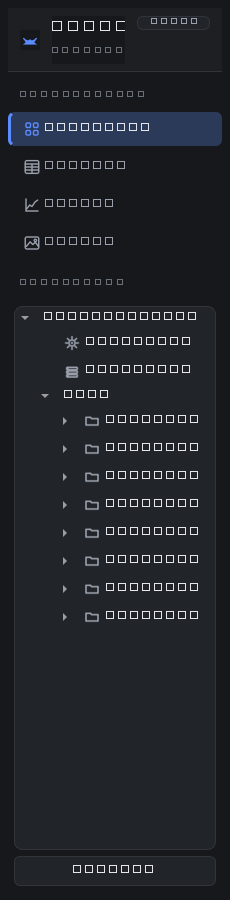
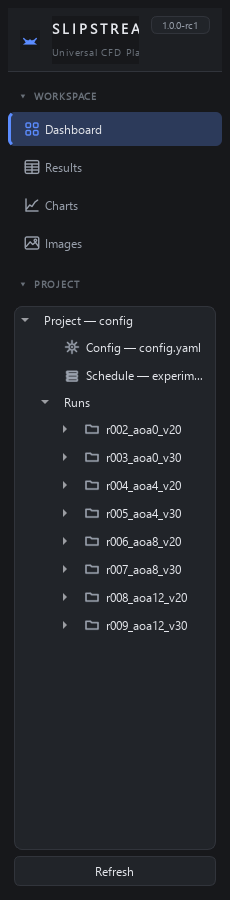
feat: finalize Neo v2.2 visual polish

diff --git a/gui/panels/params_panel.py b/gui/panels/params_panel.py
@@ -51,11 +51,37 @@ def _meta_caption(pdef) -> str:
     return "  ·  ".join(parts)
 
 
+def _row_label(text: str, caption: str) -> QWidget:
+    """A parameter label column: display name over a dim metadata caption.
+
+    Shared by study-parameter rows (name + range) and free Workbench rows
+    (name + neutral descriptor) so both columns have the identical
+    hierarchy. ``text`` is data-driven (a parameter display name or a WBP
+    column name) — never a hardcoded domain label.
+    """
+    name = QLabel(text)
+    name.setProperty("paramName", True)
+    lbl = QWidget()
+    ll = QVBoxLayout(lbl)
+    ll.setContentsMargins(0, 0, 0, 0)
+    ll.setSpacing(theme.SPACE_XS)
+    ll.addWidget(name)
+    cap = QLabel(caption)
+    cap.setProperty("paramMeta", True)
+    ll.addWidget(cap)
+    ll.addStretch(1)
+    return lbl
+
+
 class ParamsPanel(QWidget):
     def __init__(self, state: AppState, parent=None):
         super().__init__(parent)
         self.state = state
         self._wbp_spins: Dict[str, QDoubleSpinBox] = {}
+        # The widget each WBP row actually registered in the form (the spin for
+        # free WBP rows, the spin+caption cell for metadata-backed ones) — used
+        # to remove rows by widget on rebuild. Presentation only.
+        self._wbp_fields: Dict[str, QWidget] = {}
         self._sel_rows: List[_Row] = []
         self._add_rows: List[_Row] = []
 
@@ -146,16 +172,7 @@ class ParamsPanel(QWidget):
         pdef = sp.parameter
         spin = param_render.make_spin(pdef, value=value)
 
-        name = QLabel(sp.display_name)
-        name.setProperty("paramName", True)
-        lbl = QWidget(); ll = QVBoxLayout(lbl)
-        ll.setContentsMargins(0, 0, 0, 0)
-        ll.setSpacing(theme.SPACE_XS)
-        ll.addWidget(name)
-        rng = QLabel(param_render.range_text(pdef))
-        rng.setProperty("paramMeta", True)
-        ll.addWidget(rng)
-        ll.addStretch(1)
+        lbl = _row_label(sp.display_name, param_render.range_text(pdef))
 
         field = QWidget(); fl = QVBoxLayout(field)
         fl.setContentsMargins(0, 0, 0, 0)
@@ -169,14 +186,33 @@ class ParamsPanel(QWidget):
         return lbl, spin, field
 
     def _rebuild_wbp(self) -> None:
-        for spin in self._wbp_spins.values():
-            self.form.removeRow(spin)
+        """(Re)build the free Workbench-parameter rows. Presentation only.
+
+        A WBP column that also matches a declared study parameter is rendered
+        with the *full* metadata hierarchy (name · range · unit · default) via
+        ``_build_row``; a genuinely free WBP parameter gets the same
+        label/caption structure with a neutral descriptor (it carries no
+        ParameterDefinition). Neither path hardcodes a parameter name — both
+        are keyed by the workbook's own WBP column names.
+        """
+        for field in self._wbp_fields.values():
+            self.form.removeRow(field)
+        self._wbp_fields.clear()
         self._wbp_spins.clear()
+        by_name = {p.name: p for p in self.state.input_parameters()}
         for name in self.state.wbp_names:
-            spin = param_render.plain_spin(tooltip=f"{name} — free Workbench "
-                                           f"parameter (no metadata bounds).")
+            sp = by_name.get(name)
+            if sp is not None:
+                lbl, spin, field = self._build_row(sp)
+            else:
+                spin = param_render.plain_spin(
+                    tooltip=f"{name} — free Workbench parameter "
+                            f"(no metadata bounds).")
+                lbl = _row_label(name, "Workbench parameter · free value")
+                field = spin
             self._wbp_spins[name] = spin
-            self.form.insertRow(self.form.rowCount(), f"{name} (WBP)", spin)
+            self._wbp_fields[name] = field
+            self.form.insertRow(self.form.rowCount(), lbl, field)
 
     def _load_row(self, row: int) -> None:
         df = self.state.df

diff --git a/tests/test_neov2_milestone3.py b/tests/test_neov2_milestone3.py
@@ -82,6 +82,31 @@ def test_params_panel_still_scrolls_and_min_width(qapp):
         assert hasattr(panel, name)
 
 
+def test_params_wbp_rows_have_metadata_parity(qapp):
+    """WBP rows get the same label/field hierarchy as study rows; a WBP column
+    that matches a declared study parameter is rendered with full metadata."""
+    from gui.panels.params_panel import ParamsPanel
+    st = _state_for(EXTERNAL_AERODYNAMICS)
+    st.wbp_names = ["FlapAngle", "aoa"]
+    panel = ParamsPanel(st)
+    panel._rebuild_wbp()
+    assert set(panel._wbp_spins) == {"FlapAngle", "aoa"}
+    assert set(panel._wbp_fields) == {"FlapAngle", "aoa"}
+    # Free WBP parameter → neutral caption, plain (unbounded) spin.
+    free = panel._wbp_spins["FlapAngle"]
+    assert free.minimum() == -1e6 and free.maximum() == 1e6
+    assert free.toolTip() == "FlapAngle — free Workbench parameter (no metadata bounds)."
+    # WBP name that also is a study parameter → metadata bounds + tooltip.
+    aoa = panel._wbp_spins["aoa"]
+    assert aoa.minimum() == -90.0 and aoa.maximum() == 90.0
+    assert "Range: -90 to 90 deg" in aoa.toolTip()
+    # Both rows are registered in the form, and values flow through the same
+    # public edit path (_load_row / _apply use these exact spins).
+    assert panel.form.rowCount() == 1 + len(panel._sel_rows) + 2
+    panel._wbp_spins["aoa"].setValue(5.0)
+    assert panel._wbp_spins["aoa"].value() == 5.0
+
+
 # --------------------------------------------------------------------- #
 # Images — metadata readout + empty state
 # --------------------------------------------------------------------- #
@@ -160,6 +185,33 @@ def test_console_mapped_command_emits_signal(qapp):
     c._run_command()
     assert fired == [True]
     assert "slipstream" in c.text.toPlainText()     # echoed the prompt
+    assert "<span" not in c.text.toPlainText()      # echo is rendered, not raw HTML
+
+
+def test_console_follows_bottom_only_when_at_bottom(qapp):
+    """Auto-scroll follows the live output only while the user is at the
+    bottom; an upward-scrolled view is not yanked back per new line."""
+    from gui.panels.console import ConsolePanel
+    c = ConsolePanel()
+    c.resize(420, 140)
+    c.show()
+    qapp.processEvents()
+    for i in range(400):
+        c.append(f"line {i}")
+    qapp.processEvents()
+    sb = c.text.verticalScrollBar()
+    assert sb.maximum() > 0                          # output exceeds the viewport
+    sb.setValue(0)                                   # user scrolled to the top
+    qapp.processEvents()
+    c.append("scrolled-up append")
+    qapp.processEvents()
+    assert sb.value() == 0                           # NOT yanked to the bottom
+    sb.setValue(sb.maximum())                        # user follows the live bottom
+    qapp.processEvents()
+    c.append("bottom append")
+    qapp.processEvents()
+    assert sb.value() == sb.maximum()                # kept pinned to the bottom
+    assert c.text.blockCount() <= 4000               # cap preserved
 
 
 def test_console_mock_on_off_and_toggle(qapp):

diff --git a/_screens/capture.py b/_screens/capture.py
@@ -27,11 +27,44 @@ ROOT = Path(__file__).resolve().parents[1]
 sys.path.insert(0, str(ROOT))
 
 from PySide6.QtCore import Qt                         # noqa: E402
+from PySide6.QtGui import QFontDatabase               # noqa: E402
 from PySide6.QtWidgets import QApplication            # noqa: E402
 
 from gui.main_window import MainWindow                # noqa: E402
 from gui.theme import apply_theme                     # noqa: E402
 from tools.make_experiment_template import build_template  # noqa: E402
+
+
+def _load_offscreen_fonts() -> None:
+    """Load system fonts from disk for offscreen rendering.
+
+    The Qt offscreen QPA cannot enumerate system fonts, so every glyph
+    renders as □.  Loading the actual .ttf files via
+    ``QFontDatabase.addApplicationFont`` makes the same typefaces
+    (Segoe UI, Arial, Cascadia Code) available for capture without
+    changing the application's own font configuration.  This is a
+    capture-time fix only — the running app on a real display never
+    needs it.
+    """
+    import glob as _glob
+    import sys as _sys
+    candidates = {
+        "Segoe UI": ["segoeui.ttf"],
+        "Arial":    ["arial.ttf"],
+        "Cascadia Code": ["CascadiaCode.ttf", "CascadiaCode-Regular.ttf"],
+    }
+    if _sys.platform == "win32":
+        font_dir = os.path.join(os.environ.get("WINDIR", r"C:\Windows"), "Fonts")
+    elif _sys.platform == "darwin":
+        font_dir = "/Library/Fonts"
+    else:
+        font_dir = "/usr/share/fonts"
+    for _family, names in candidates.items():
+        for name in names:
+            path = os.path.join(font_dir, name)
+            if os.path.isfile(path):
+                QFontDatabase.addApplicationFont(path)
+                break
 
 # A config-less MainWindow defers a *modal* project-selector dialog via
 # QTimer.singleShot(0, self._open_project_selector) — the bound method is
@@ -88,6 +121,7 @@ def _save(widget, name: str) -> None:
 
 def main() -> int:
     app = QApplication.instance() or QApplication([])
+    _load_offscreen_fonts()
     apply_theme(app)
 
     # -- 1. Startup / no-project (empty state) ----------------------------

diff --git a/gui/panels/images_panel.py b/gui/panels/images_panel.py
@@ -139,22 +139,39 @@ class ImagesPanel(QWidget):
         split.setChildrenCollapsible(False)
 
         # -- empty state --------------------------------------------------- #
+        # A centered engineering placeholder: painted icon, eyebrow caption,
+        # title, and a wrapping hint — same vertical rhythm (SPACE_MD) as the
+        # dashboard/charts empty states. Purely presentational.
         self._empty = QWidget()
         el = QVBoxLayout(self._empty)
         el.setAlignment(Qt.AlignCenter)
-        ic = make_icon("images", theme.TEXT_DIM, 48)
+        el.setContentsMargins(theme.PANEL_MARGIN, theme.SPACE_LG,
+                              theme.PANEL_MARGIN, theme.SPACE_LG)
+        el.setSpacing(theme.SPACE_MD)
+
+        ic = make_icon("images", theme.TEXT_DIM, 56)
         if ic is not None:
             ic_lbl = QLabel()
-            ic_lbl.setPixmap(ic.pixmap(48, 48))
+            ic_lbl.setPixmap(ic.pixmap(56, 56))
             ic_lbl.setAlignment(Qt.AlignCenter)
             el.addWidget(ic_lbl)
+
+        eyebrow = QLabel("Case Visualization")
+        eyebrow.setProperty("imageMetaCaption", True)
+        eyebrow.setAlignment(Qt.AlignCenter)
+        el.addWidget(eyebrow)
+
         t_lbl = QLabel("No Image Available")
         t_lbl.setProperty("imageEmptyTitle", True)
         t_lbl.setAlignment(Qt.AlignCenter)
         el.addWidget(t_lbl)
-        h_lbl = QLabel("Open or generate a study image to inspect geometry.")
+
+        h_lbl = QLabel("Run a study and select a case to inspect its "
+                       "geometry, mesh and contour images.")
         h_lbl.setProperty("imageEmptyHint", True)
         h_lbl.setAlignment(Qt.AlignCenter)
+        h_lbl.setWordWrap(True)
+        h_lbl.setMaximumWidth(340)
         el.addWidget(h_lbl)
 
         self._stack = QStackedLayout()

diff --git a/gui/panels/console.py b/gui/panels/console.py
@@ -123,14 +123,31 @@ class ConsolePanel(QWidget):
 
     # ------------------------------------------------------------------ #
     def _line(self, text: str, color: str) -> None:
-        self.text.appendHtml(f'<span style="color:{color}">{html.escape(text)}</span>')
-        sb = self.text.verticalScrollBar()
-        sb.setValue(sb.maximum())
+        self._append_html(f'<span style="color:{color}">{html.escape(text)}</span>')
 
     def _echo(self, raw: str) -> None:
-        self._line(
-            f'{_PROMPT} <span style="color:{theme.CONSOLE_TEXT}">'
-            f'{html.escape(raw)}</span>', theme.CONSOLE_PROMPT)
+        """Echo the typed command: accent prompt + body-coloured command text.
+
+        Builds its own escaped HTML on purpose — going through ``_line``'s
+        escaping would render the markup literally in the output.
+        """
+        self._append_html(
+            f'<span style="color:{theme.CONSOLE_PROMPT}">{html.escape(_PROMPT)}</span> '
+            f'<span style="color:{theme.CONSOLE_TEXT}">{html.escape(raw)}</span>')
+
+    def _append_html(self, fragment: str) -> None:
+        """Append one pre-escaped HTML line with *follow-the-bottom* scrolling.
+
+        The view is kept pinned to the live output only while the user is
+        already at the bottom; an upward-scrolled user is never yanked back to
+        the newest line. The 4000-line cap is enforced by ``QPlainTextEdit``
+        (``maximumBlockCount``) and unchanged.
+        """
+        sb = self.text.verticalScrollBar()
+        follow = sb.value() >= sb.maximum() - 2
+        self.text.appendHtml(fragment)
+        if follow:
+            sb.setValue(sb.maximum())
 
     def _run_command(self) -> None:
         raw = self.input.text().strip()

diff --git a/gui/panels/charts_panel.py b/gui/panels/charts_panel.py
@@ -143,8 +143,8 @@ class ChartsPanel(QWidget):
 
         # ---- Assemble -------------------------------------------------- #
         lay = QVBoxLayout(self)
-        lay.setContentsMargins(theme.SPACE_SM, theme.SPACE_SM,
-                               theme.SPACE_SM, theme.SPACE_SM)
+        lay.setContentsMargins(theme.PANEL_MARGIN, theme.PANEL_MARGIN,
+                               theme.PANEL_MARGIN, theme.PANEL_MARGIN)
         lay.setSpacing(theme.SPACE_SM)
         lay.addWidget(toolbar)
         lay.addLayout(self._content_stack, 1)
